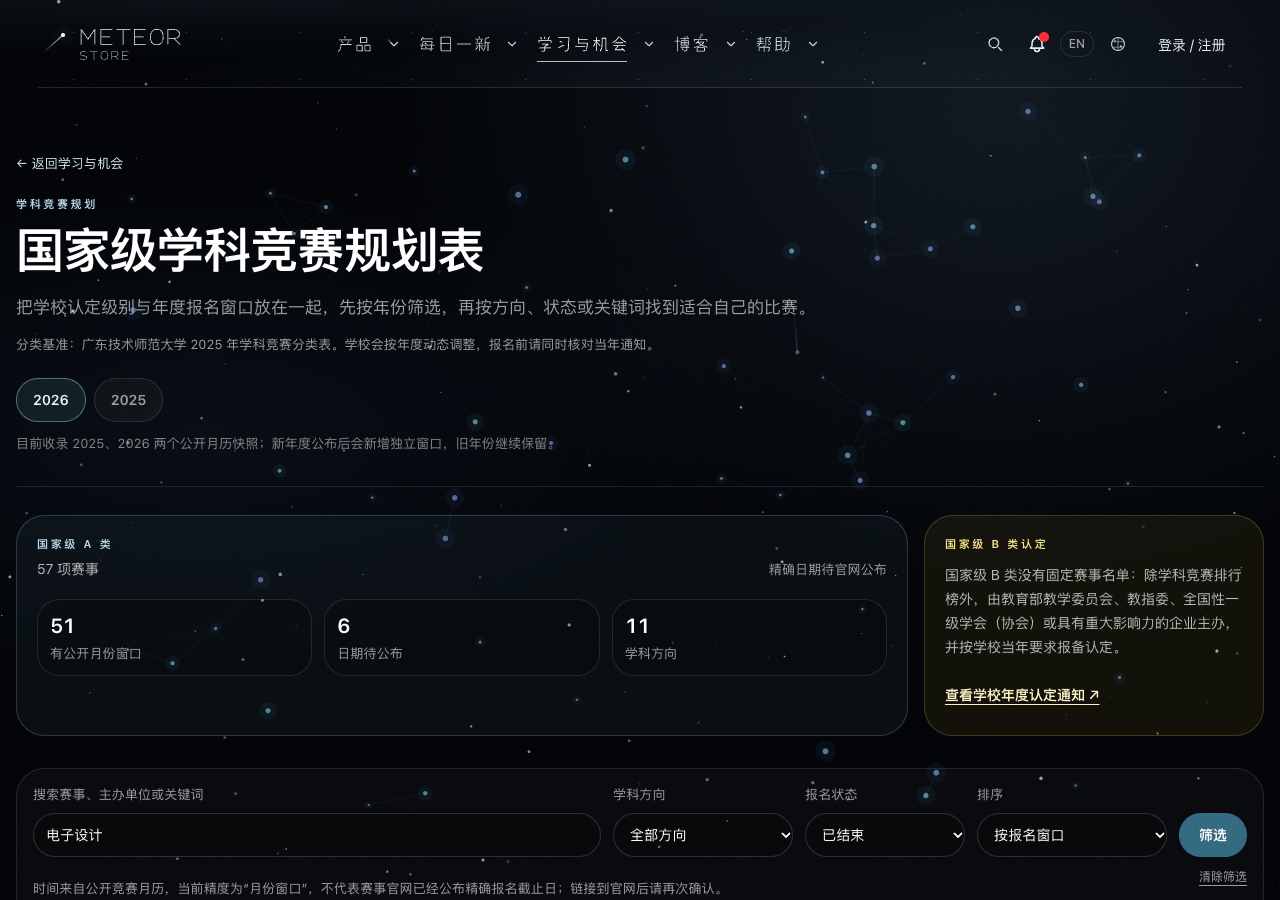
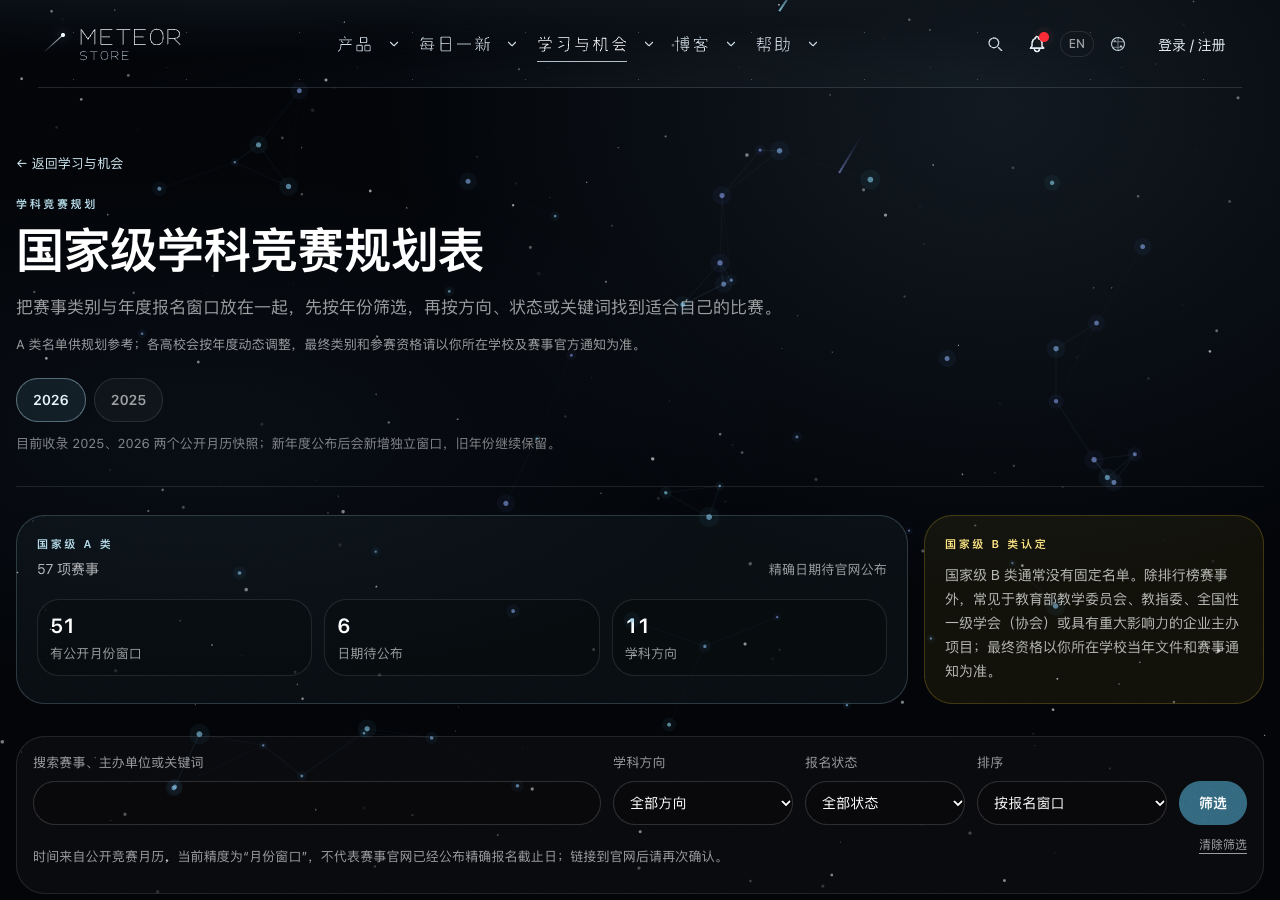
docs(competitions): 更新通用 B 类说明验收

diff --git a/docs/process/2026-11-12-national-competition-planner-release.md b/docs/process/2026-11-12-national-competition-planner-release.md
@@ -1,13 +1,13 @@
 # 2026-11-12 国家学科竞赛规划表上线
 
-状态：已上线并通过生产浏览器验收。运行提交 `172546e`，生产 `BUILD_ID=build-TfctsWXpff2fKS`，PM2 PID `3028781`。
+状态：已上线并通过生产浏览器验收。运行提交 `e6ea5bb`，生产 `BUILD_ID=build-TfctsWXpff2fKS`，PM2 PID `3030863`。
 
 ## 上线内容
 
 - 新公开页 `/zh/competitions`、`/en/competitions`，从“学习与机会 → 机会与申请”进入，Pathfinder 首页也提供入口。
 - 保留广师大 2025 分类表里的 57 项国家级 A 类赛事；2025、2026 两个年度分别保存报名窗口。
 - 51 项在两年都有公开月份窗口；理律杯、桃李杯、全国大学生音乐大赛、职业技术师范院校教学能力比赛、田家炳杯和世界传统武术锦标赛没有公开日期，显示“待公布”。
-- 国家级 B 类没有固定名单，页面只展示学校的年度认定规则和 2026 学校通知，没有虚构赛事。
+- 国家级 B 类通常没有固定名单，页面只展示通用认定参考，并提示最终资格以用户所在学校和赛事当年通知为准；不展示任何学校专属名称或认定通知链接。
 - 支持年份、关键词、主学科、报名状态筛选和排序；切换年份保留当前筛选。桌面为表格，手机为卡片。
 - 新页面进入二级导航、Spotlight、sitemap 和帮助中心导航说明。
 
@@ -15,7 +15,7 @@
 
 - 赛事名称、主办单位与 A 类分类来自用户附件中的《广东技术师范大学学科竞赛分类表（2025）》。
 - 报名时间来自 2025、2026 公开高校竞赛月历，只有月份精度，页面明确标为“月份窗口”。没有把月份推断成具体日期。
-- 2026 学校分类表附件需要验证码下载，本次没有绕过。页面链接学校 2026 通知，后续拿到正式附件时可继续更新名单。
+- 2026 学校分类表附件需要验证码下载，本次没有绕过；归属学校只作为内部资料记录，不出现在公开页面。
 
 ## 并发送代
 
@@ -27,9 +27,10 @@
 - 全量测试 3,968 项通过、47 项跳过；TypeScript、改动文件 ESLint 和 `git diff --check` 通过。
 - 生产构建生成 446 个页面，新增 `/[locale]/competitions` 路由；激活后 PM2、数据库和 Redis 健康。
 - 生产中文、英文页面均 200；Spotlight 检索“学科竞赛”返回 `/competitions`；sitemap 含中英文地址。
+- 最终修订后生产 HTML 不含“广东技术师范大学”、`gpnu.edu.cn/info/1039/65303` 或“查看学校年度认定通知”；B 类卡显示“以你所在学校当年文件和赛事通知为准”。
 - 线上 Chrome 实测输入“电子设计”并选择“已结束”后只返回 1 项，年份 2025 链接保留查询与状态参数。
 - 展开“学习与机会”二级导航可见“国家学科竞赛表”；桌面与手机截图无裁切或交互错误，浏览器无页面错误。
-- 回滚目录：`/var/backups/meteor-store-runtime-0dHFzNu4`。
+- 回滚目录：`/var/backups/meteor-store-runtime-YcTZfQaV`。
 
 ## 未覆盖
 
@@ -37,4 +38,4 @@
 - 2026 学校分类表附件未取得，没有宣称 2026 A/B 名单已经按学校文件逐项更新。
 - B 类不存在固定名单，不能提供 57 项之外的“完整 B 类赛事表”。
 
-证据：[核验摘要](national-competition-planner-20261112/verification.json)、[桌面筛选截图](national-competition-planner-20261112/desktop-filtered.png)、[手机顶部](national-competition-planner-20261112/mobile-top.png)、[手机列表](national-competition-planner-20261112/mobile-list.png)。
+证据：[核验摘要](national-competition-planner-20261112/verification.json)、[桌面页面](national-competition-planner-20261112/desktop-filtered.png)、[手机顶部](national-competition-planner-20261112/mobile-top.png)、[手机 B 类说明](national-competition-planner-20261112/mobile-b-class.png)、[手机列表](national-competition-planner-20261112/mobile-list.png)。
